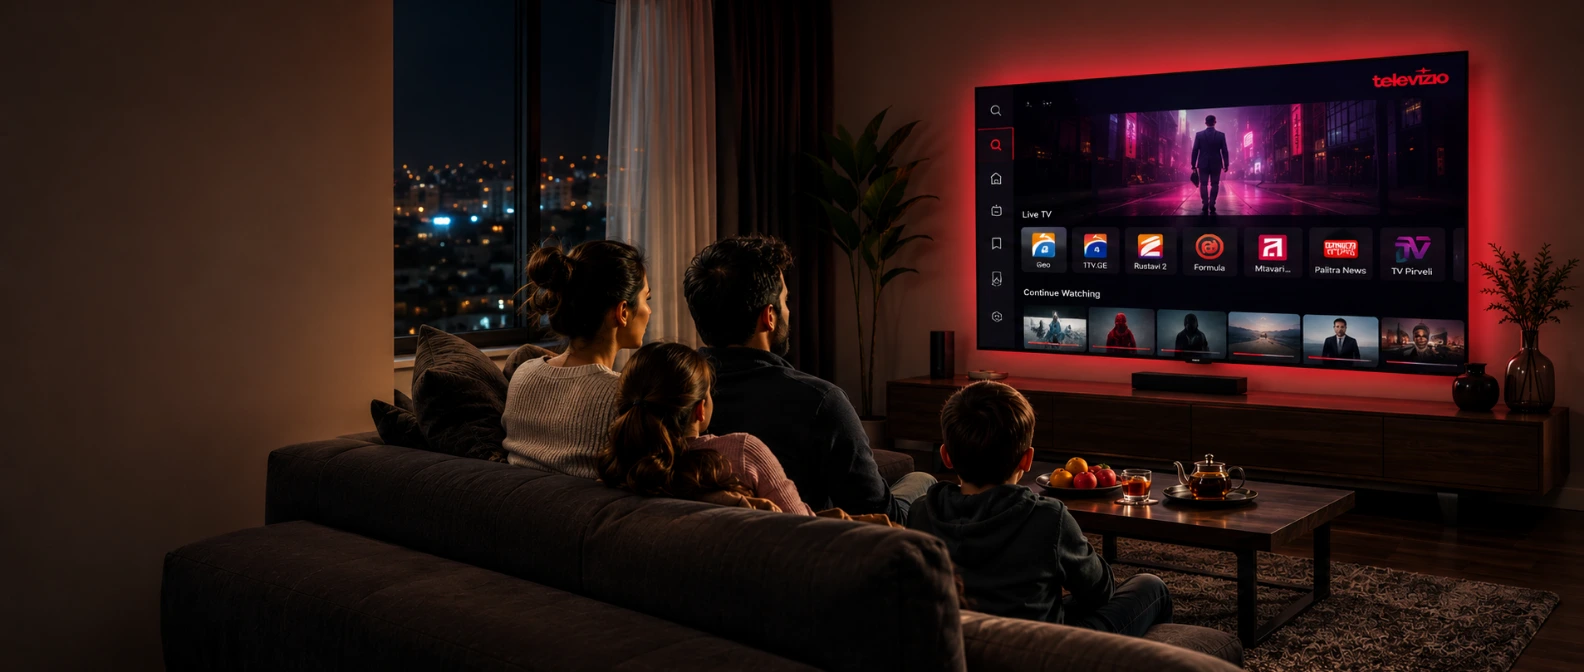
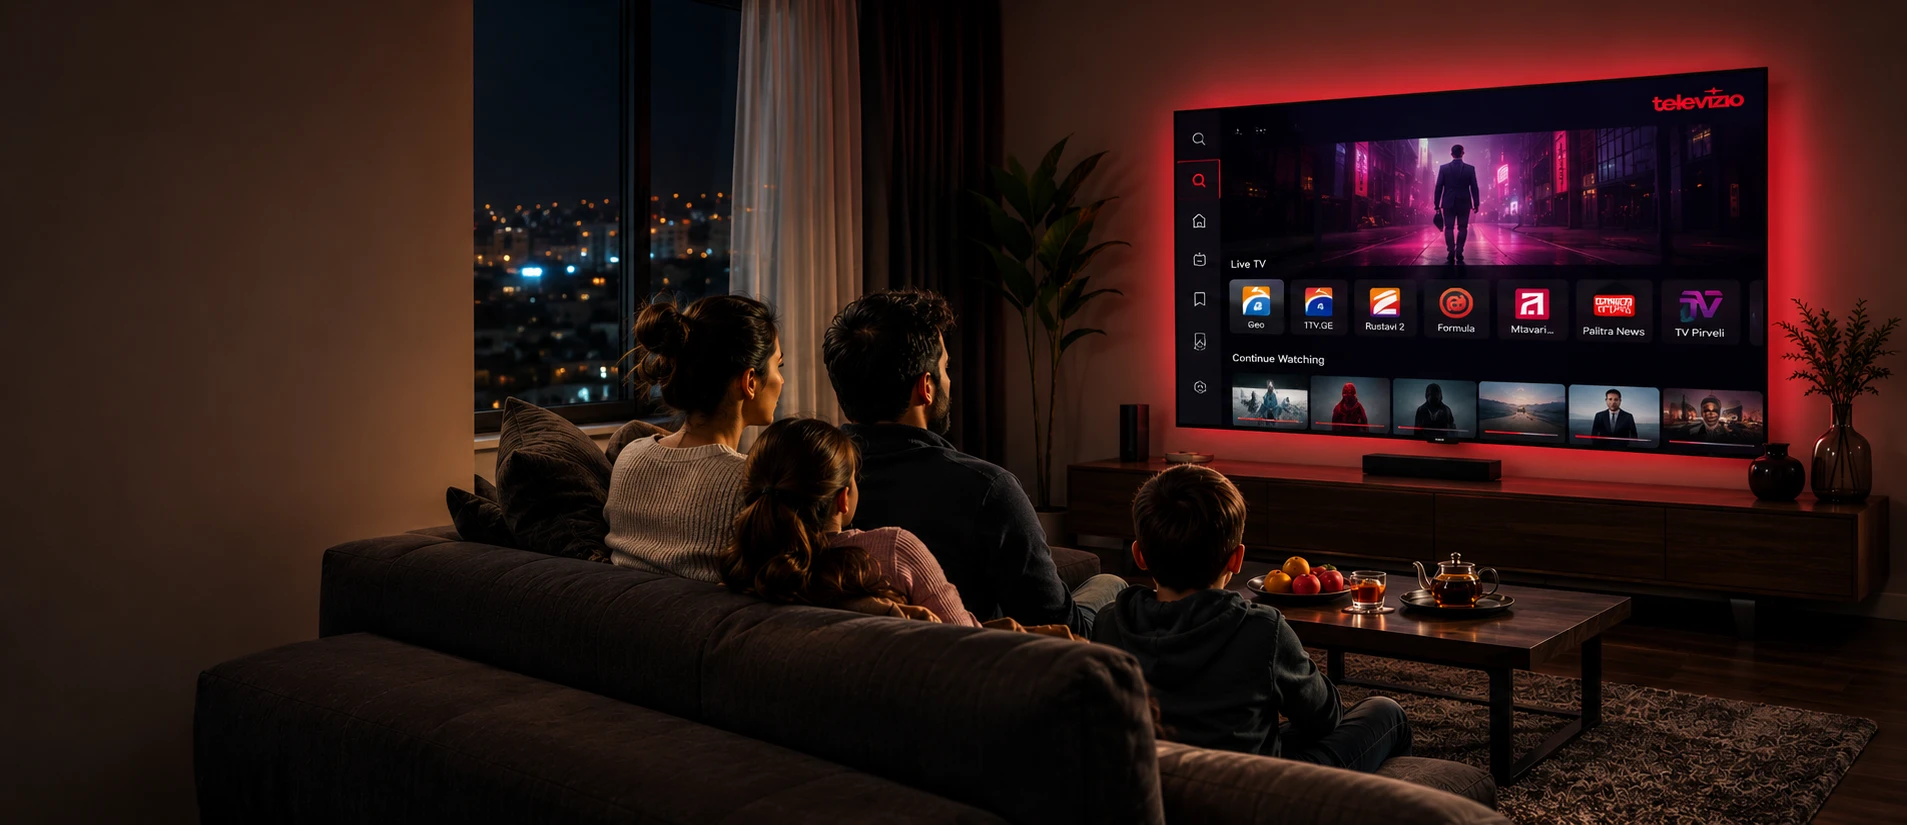
Stop enlarging the hero plate to fit the hero
The plate was downsampled to 1584x672 to match the old scenes, then the
browser had to scale it 1.114x to cover a 1280x720 hero, with a standing
scale(1.04) in the CSS on top of that. Fifteen percent of enlargement, which
is what the softness was.

It now carries the render's own 1907x825 with no resample and no ratio crop,
so cover works out to 0.873x — a downscale, every pixel from real source
data. 157 KB, in line with the other plates.

The standing zoom goes with it. The scroll parallax scales the plate itself,
so .hero__scene never needed the headroom, and losing it pulls the frame back
far enough to hold the whole panel: the mark, and the channel rail to its
right edge.

diff --git a/index.html b/index.html
@@ -106,7 +106,7 @@
   <div class="hero__stage" id="stage">
     <div class="hero__plate" id="plate">
       <img class="hero__scene is-on" src="assets/img/hero-family.webp" alt="ოჯახი საღამოს სახლში ტელევიზორს უყურებს; ეკრანზე Televizio-ს მთავარი გვერდი პირდაპირი არხებით"
-           width="1584" height="672" fetchpriority="high">
+           width="1907" height="825" fetchpriority="high">
       <span class="hero__vig" aria-hidden="true"></span>
     </div>
   </div>

diff --git a/assets/css/style.css b/assets/css/style.css
@@ -342,7 +342,9 @@ body.is-locked{ overflow:hidden; }
   /* the panel sits further right in this plate than in the old rooms; on a
      16:9 viewport 64% cropped the channel rail off its right edge */
   object-position:68% 46%;
-  transform:scale(1.04);
+  /* no standing zoom: the plate is barely wider than the viewport crops it to,
+     and 4% of enlargement was 4% of softness. The scroll parallax scales the
+     plate itself, so nothing here needs the headroom. */
   opacity:0;
 }
 .hero__scene.is-on{ opacity:1; }
